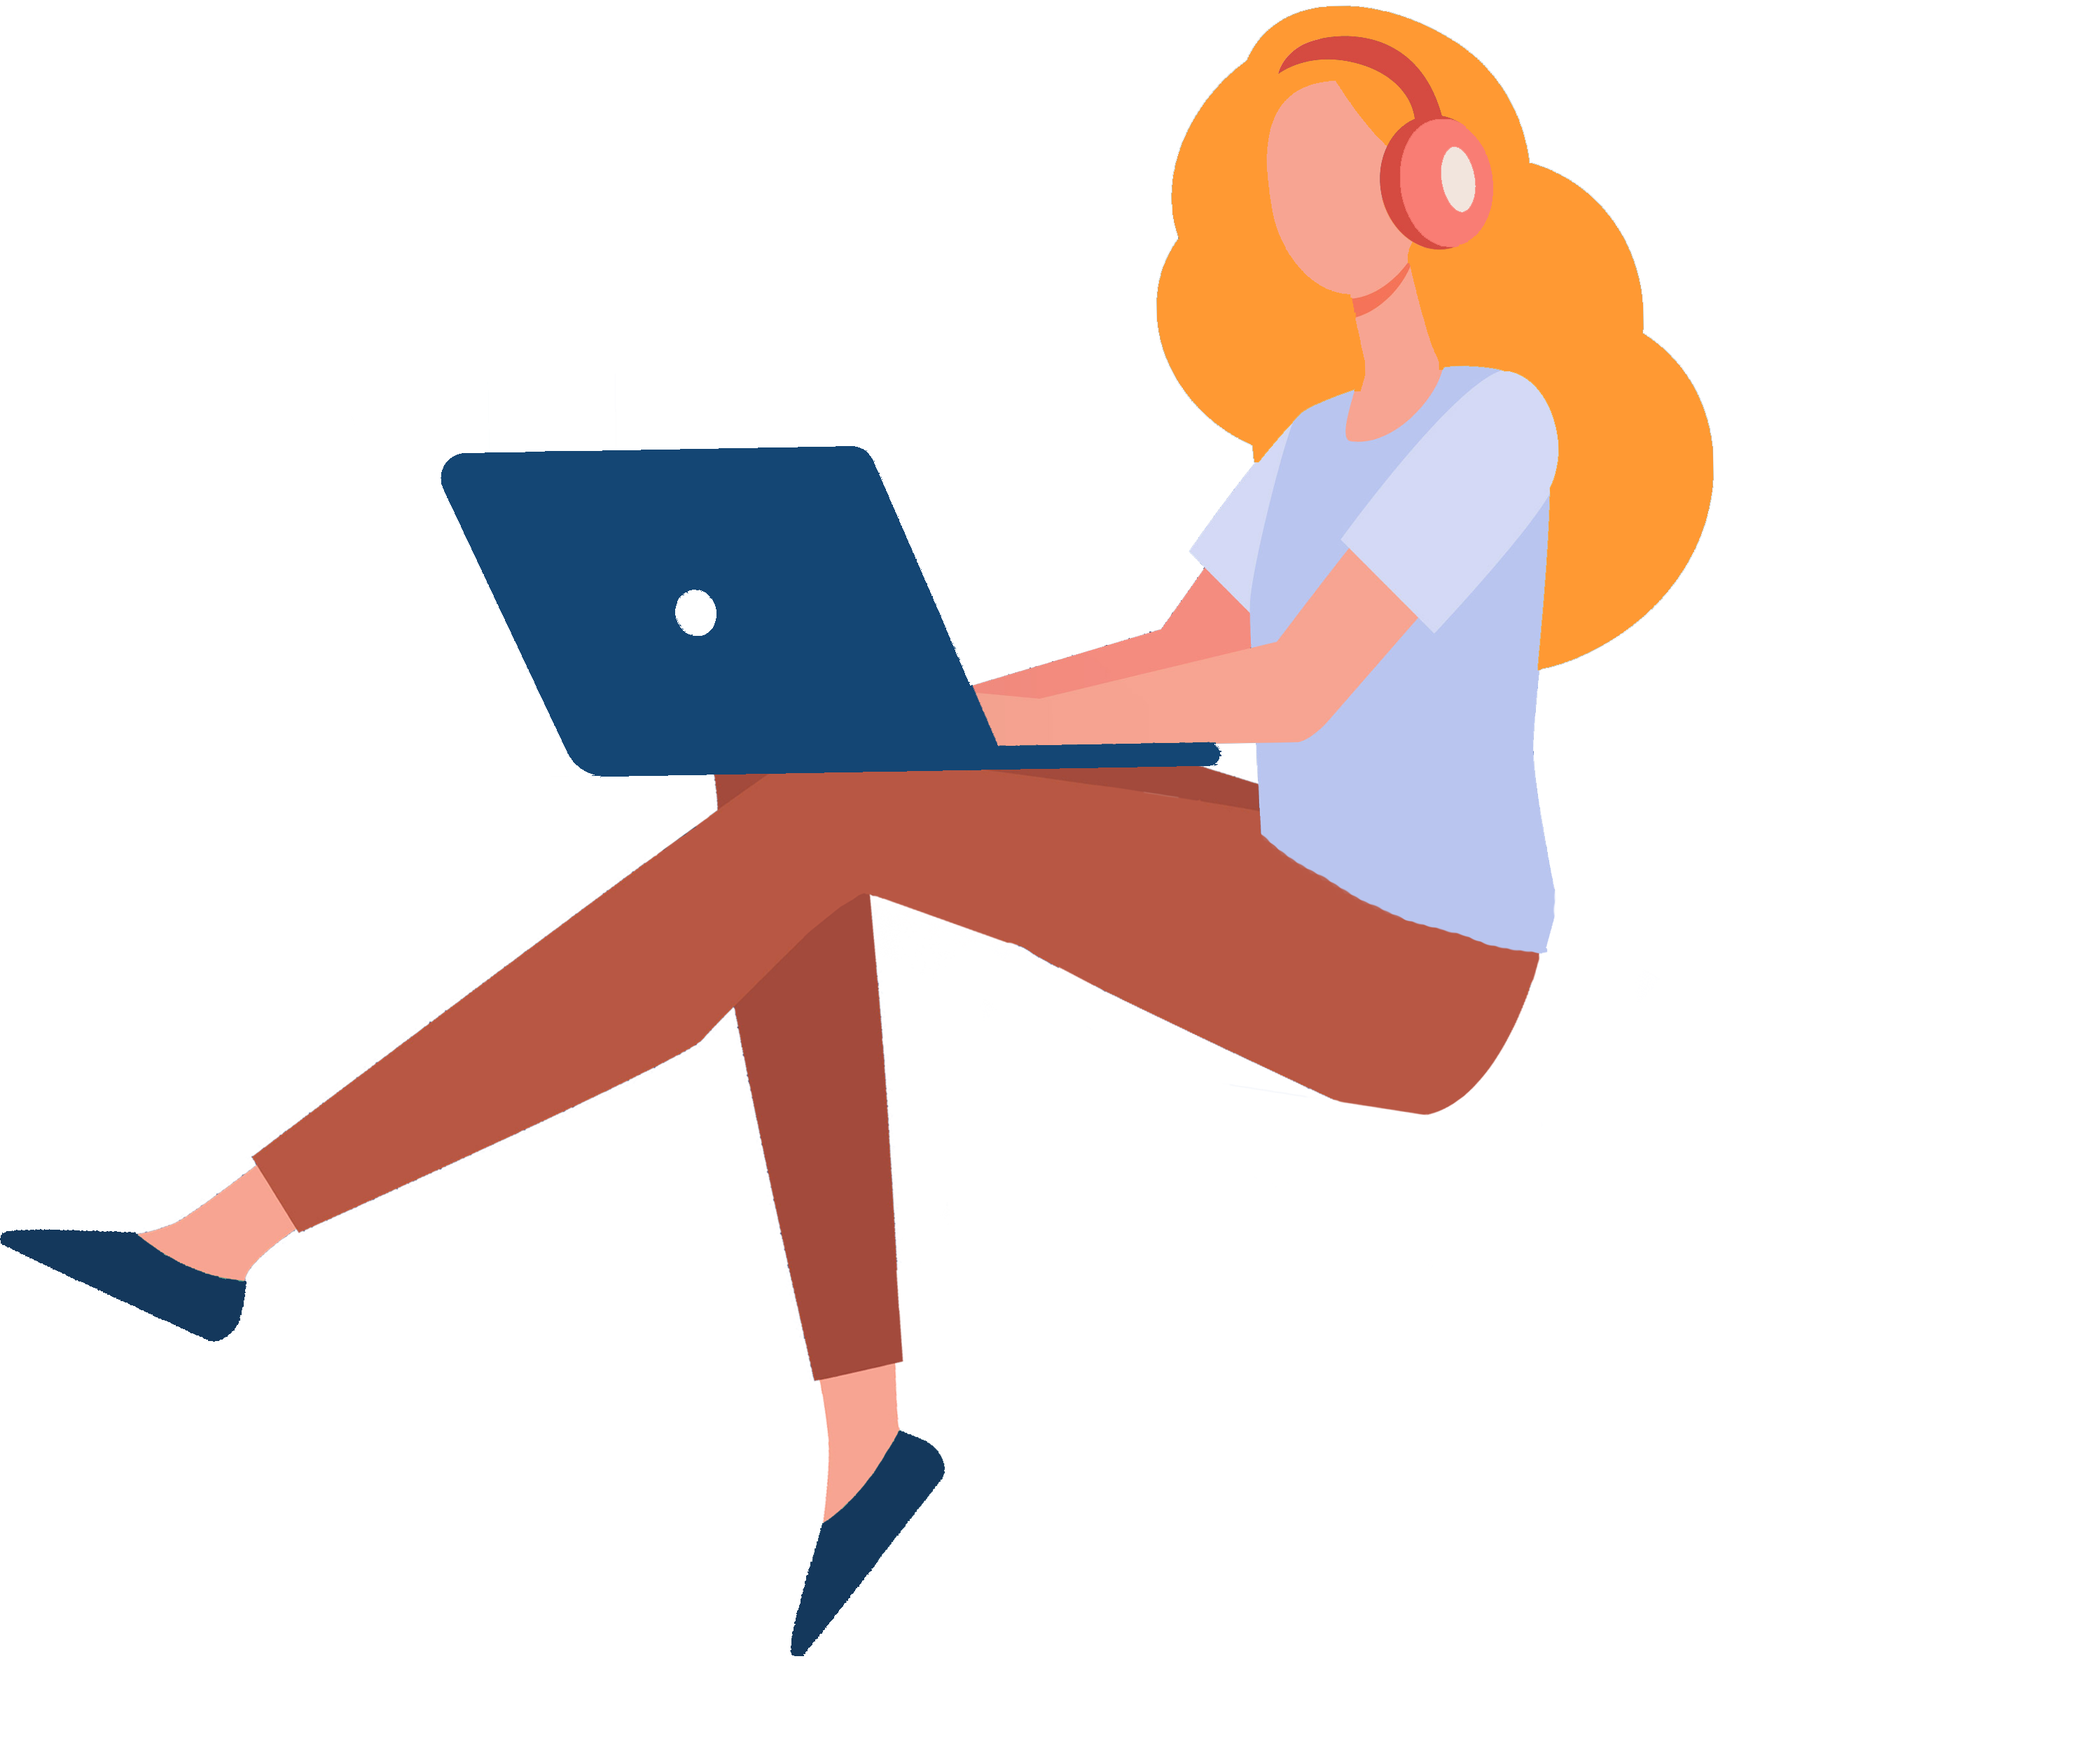
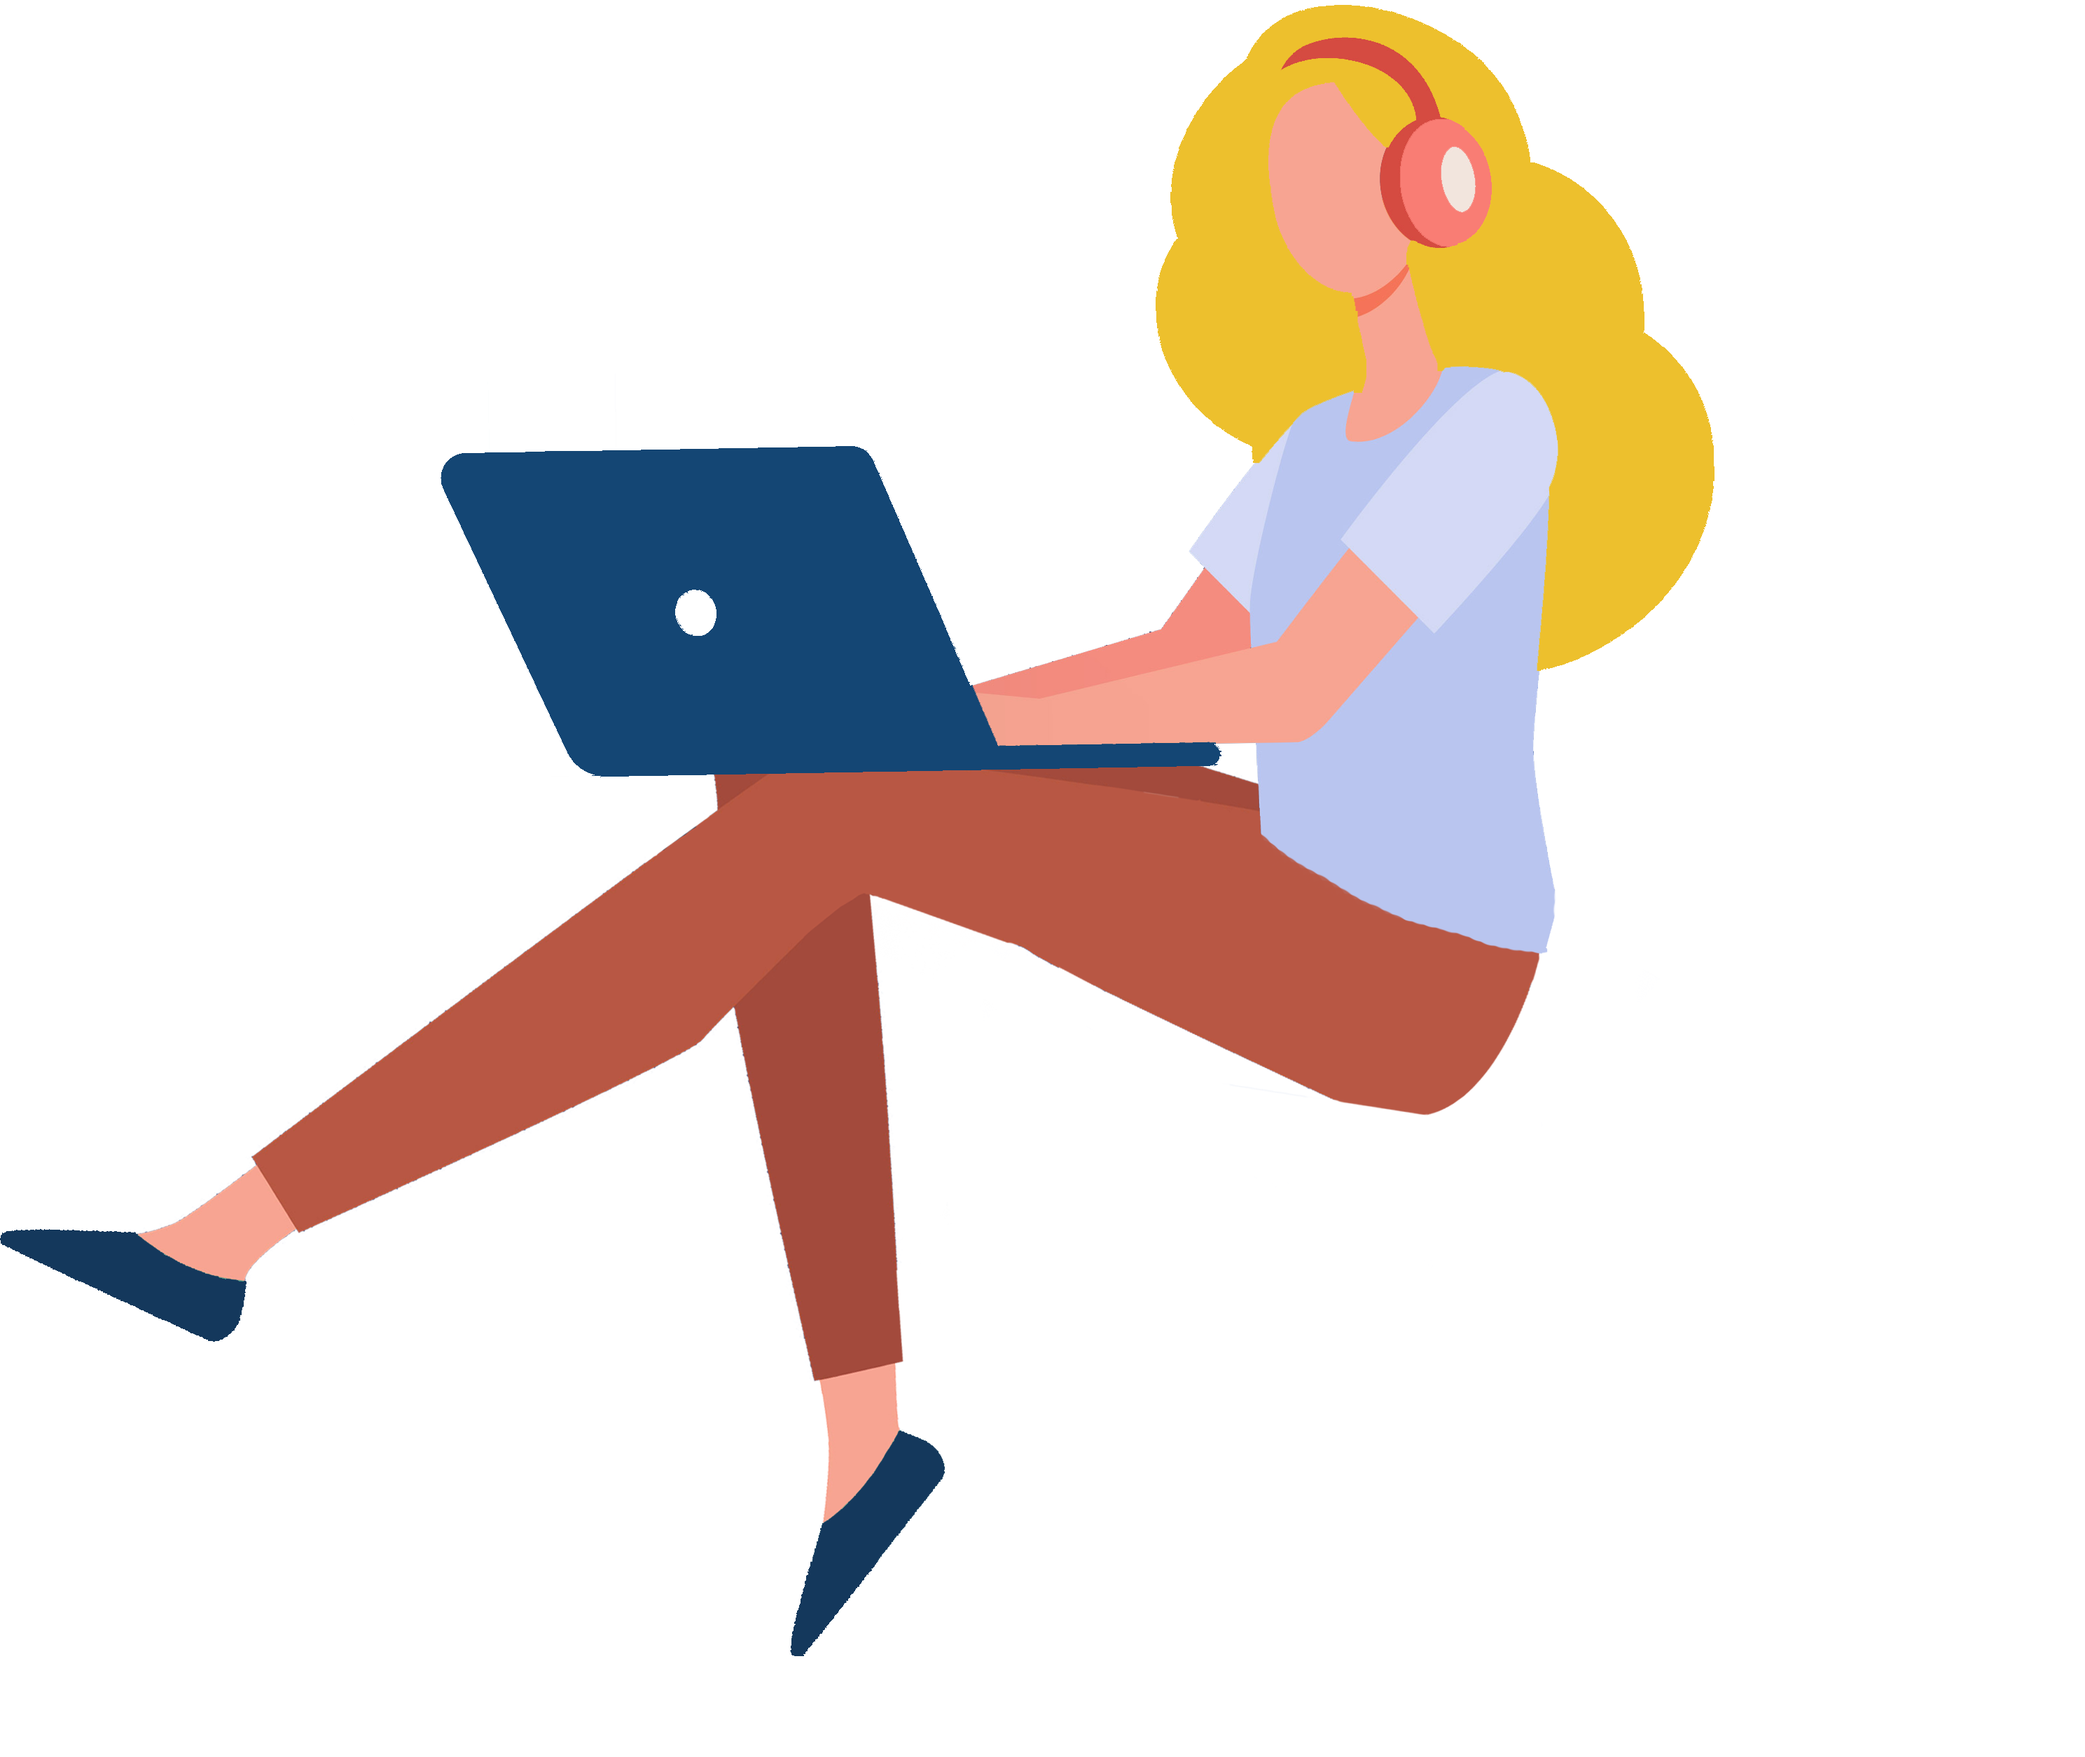
ajuste de colores, pelo y bg

Changed region(s): [[0.5311, 0.0, 0.8435, 0.3731]]

diff --git a/style.css b/style.css
@@ -7,7 +7,8 @@
 
 body{
   /* background: rgb(168,208,230 ); */
-  background: rgb(104, 192, 214);
+  /* background: rgb(104, 192, 214); */
+  background: rgb(140, 206, 241);
 }
 
 .container_chica{
